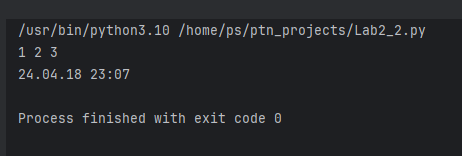
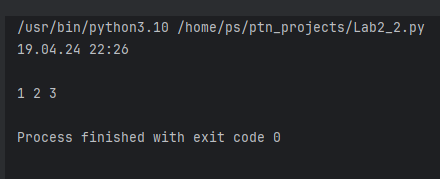
Рефакторинг

Changed region(s): [[0.0295, 0.1026, 0.975, 0.3846], [0.0295, 0.7179, 0.65, 0.7949], [0.0295, 0.4359, 0.2955, 0.5641]]

diff --git a/Lab2_5.py b/Lab2_5.py
@@ -1,9 +1,5 @@
-from datetime import datetime
-current_datetime = datetime.now()
-formatted_datetime = current_datetime.strftime('%y.%m.%d %H:%M')
+from get_datetime import get_datetime
+get_datetime()
 
-day, month, year = 18, 'апрель', 2024
+day, month, year = 18, 'апреля', 2024
 print(f"Сегодня {day} {month} {year}.", end=" Всего хорошего!")
-
-print()
-print(formatted_datetime)

diff --git a/Lab2_10.py b/Lab2_10.py
@@ -1,9 +1,6 @@
-from datetime import datetime
-current_datetime = datetime.now()
-formatted_datetime = current_datetime.strftime('%y.%m.%d %H:%M')
+from get_datetime import get_datetime
+get_datetime()
 
 phrase = 'Hello World'
 initials = phrase[0] + phrase[6]
 print(initials)
-
-print(formatted_datetime)

diff --git a/Lab2_2.py b/Lab2_2.py
@@ -1,8 +1,5 @@
-from datetime import datetime
-current_datetime = datetime.now()
-formatted_datetime = current_datetime.strftime('%y.%m.%d %H:%M')
+from get_datetime import get_datetime
+get_datetime()
 
 a, b, c = 1, 2, 3
 print(a, b, c)
-
-print(formatted_datetime)

diff --git a/Lab2_6.py b/Lab2_6.py
@@ -1,7 +1,4 @@
-from datetime import datetime
-current_datetime = datetime.now()
-formatted_datetime = current_datetime.strftime('%y.%m.%d %H:%M')
+from get_datetime import get_datetime
+get_datetime()
 
 print('Hello' + ' my ' + 'World')
-
-print(formatted_datetime)

diff --git a/Lab2_8.py b/Lab2_8.py
@@ -1,7 +1,4 @@
-from datetime import datetime
-current_datetime = datetime.now()
-formatted_datetime = current_datetime.strftime('%y.%m.%d %H:%M')
+from get_datetime import get_datetime
+get_datetime()
 
 print('HELLO WORLD'.lower())
-
-print(formatted_datetime)

diff --git a/Lab2_3.py b/Lab2_3.py
@@ -1,8 +1,5 @@
-from datetime import datetime
-current_datetime = datetime.now()
-formatted_datetime = current_datetime.strftime('%y.%m.%d %H:%M')
+from get_datetime import get_datetime
+get_datetime()
 
 x = int(input())
 print(x)
-
-print(formatted_datetime)

diff --git a/Lab2_4.py b/Lab2_4.py
@@ -1,8 +1,5 @@
-from datetime import datetime
-current_datetime = datetime.now()
-formatted_datetime = current_datetime.strftime('%y.%m.%d %H:%M')
+from get_datetime import get_datetime
+get_datetime()
 
 s = 'hello'
 print(s * 4)
-
-print(formatted_datetime)

diff --git a/Lab2_7.py b/Lab2_7.py
@@ -1,7 +1,4 @@
-from datetime import datetime
-current_datetime = datetime.now()
-formatted_datetime = current_datetime.strftime('%y.%m.%d %H:%M')
+from get_datetime import get_datetime
+get_datetime()
 
 print(len('Hello World'))
-
-print(formatted_datetime)

diff --git a/Lab2_9.py b/Lab2_9.py
@@ -1,8 +1,5 @@
-from datetime import datetime
-current_datetime = datetime.now()
-formatted_datetime = current_datetime.strftime('%y.%m.%d %H:%M')
+from get_datetime import get_datetime
+get_datetime()
 
 a, b = 5, 7
 print(a + b)
-
-print(formatted_datetime)

diff --git a/Lab2_1.py b/Lab2_1.py
@@ -1,7 +1,4 @@
-from datetime import datetime
-current_datetime = datetime.now()
-formatted_datetime = current_datetime.strftime('%y.%m.%d %H:%M')
+from get_datetime import get_datetime
+get_datetime()
 
 print(int(False))
-
-print(formatted_datetime)

diff --git a/get_datetime.py b/get_datetime.py
@@ -1,0 +1,6 @@
+from datetime import datetime
+
+
+def get_datetime():
+    print(datetime.now().strftime('%d.%m.%y %H:%M'))
+    print()

diff --git a/Тема_2.md b/Тема_2.md
@@ -65,7 +65,7 @@ print(s * 4)
 ### Создайте три переменные: день (тип данных - числовой), месяц (тип данных - строка), год (тип данных - числовой) и выведите в консоль текущую дату в формате: “Сегодня день месяц год. Всего хорошего!” используя F строку и оператор end внутри print(), в котором вы должны написать фразу “Всего хорошего!”. Программа должна занимать не более двух строк редактора кода.
 
 ```python
-day, month, year = 18, 'апрель', 2024
+day, month, year = 18, 'апреля', 2024
 print(f"Сегодня {day} {month} {year}.", end=" Всего хорошего!")
 ```
 ### Результат
